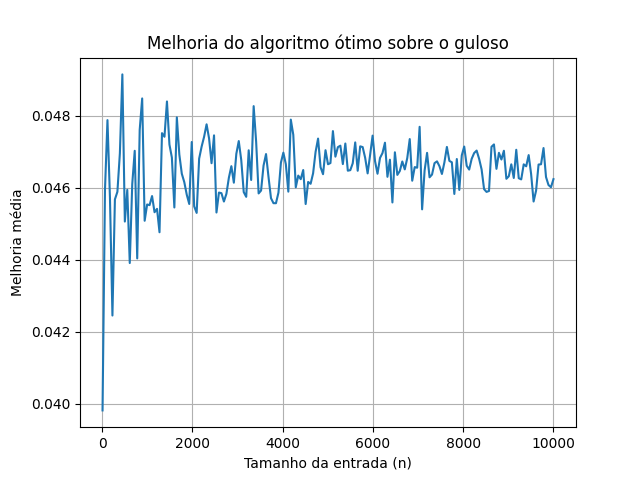
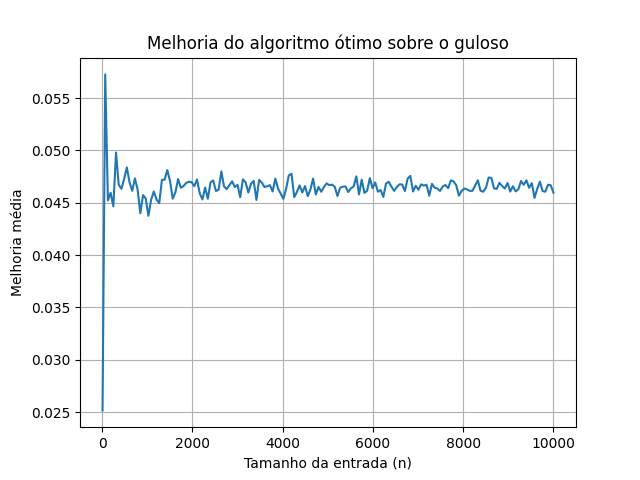
Adicionar gráficos atualizados e README

diff --git a/README.md b/README.md
@@ -1,0 +1,25 @@
+# 🏭 Problema: Linha de Montagem
+
+## 🎯 Objetivo
+
+Comparar o desempenho de dois algoritmos para o problema da **linha de montagem**:
+- ✅ Um **algoritmo de programação dinâmica** (ótimo)  
+- ⚠ Um **algoritmo guloso ingênuo**
+
+O foco é avaliar **tempo de execução** e a **qualidade da solução** de ambos os métodos.
+
+---
+
+## 📊 Resultados Experimentais
+
+### 📈 Gráfico 1 — Tempo de Execução
+
+Este gráfico mostra o tempo que cada algoritmo levou para resolver instâncias de diferentes tamanhos.
+
+![Gráfico 1 — Tempo de Execução](./data/graficos/tempo_execucao.png)
+
+### 📉 Gráfico 2 — Melhoria do Algoritmo Ótimo sobre o Guloso
+
+Este gráfico mostra o quanto a solução do algoritmo ótimo (programação dinâmica) é melhor que a do guloso em termos de tempo total da linha de montagem.
+
+![Gráfico 2 — Melhoria da Solução](./data/graficos/qualidade_solucao.png)
